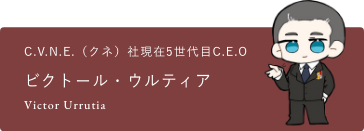
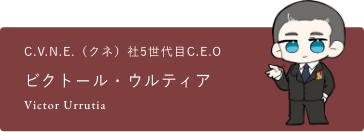
修正 20221104 (#5)
* fix: text

* fix: remove unnecessarry resource

* Empty-Commit

* fix: img

* fix: pc表示時の2行になる解答は左よせにする

diff --git a/src/assets/styles/block/_special-contents.scss b/src/assets/styles/block/_special-contents.scss
@@ -278,6 +278,15 @@
   &__description {
     margin-top: 45px;
     font-size: 14px;
+    text-align: left;
+    @include mq-up(md) {
+      text-align: center;
+    }
+    &--2row {
+      @include mq-up(md) {
+        text-align: left;
+      }
+    }
   }
   ul {
     @include mq-up(md) {
